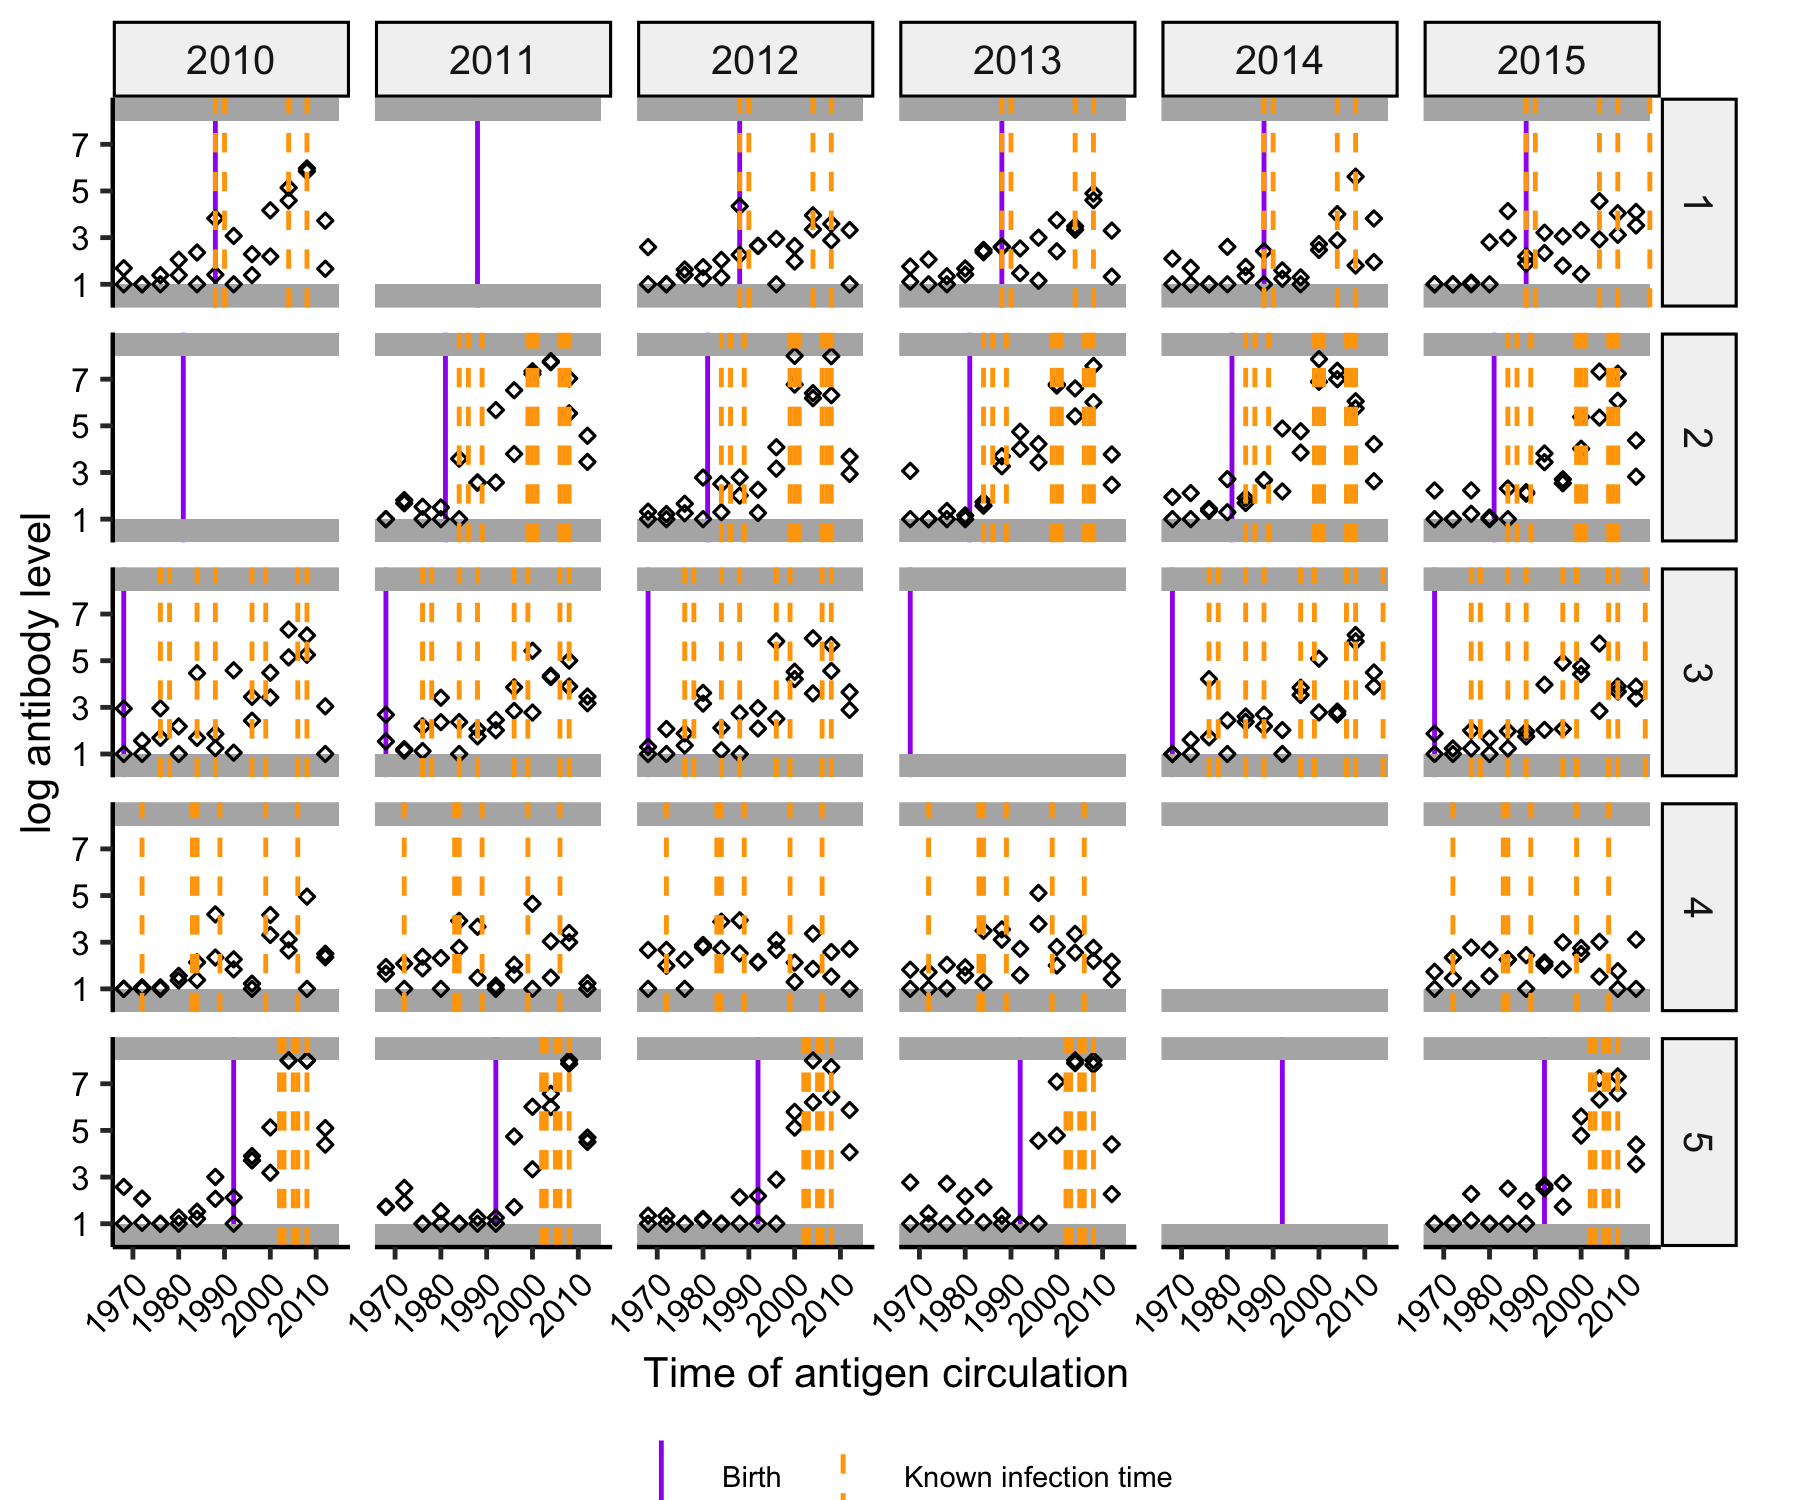
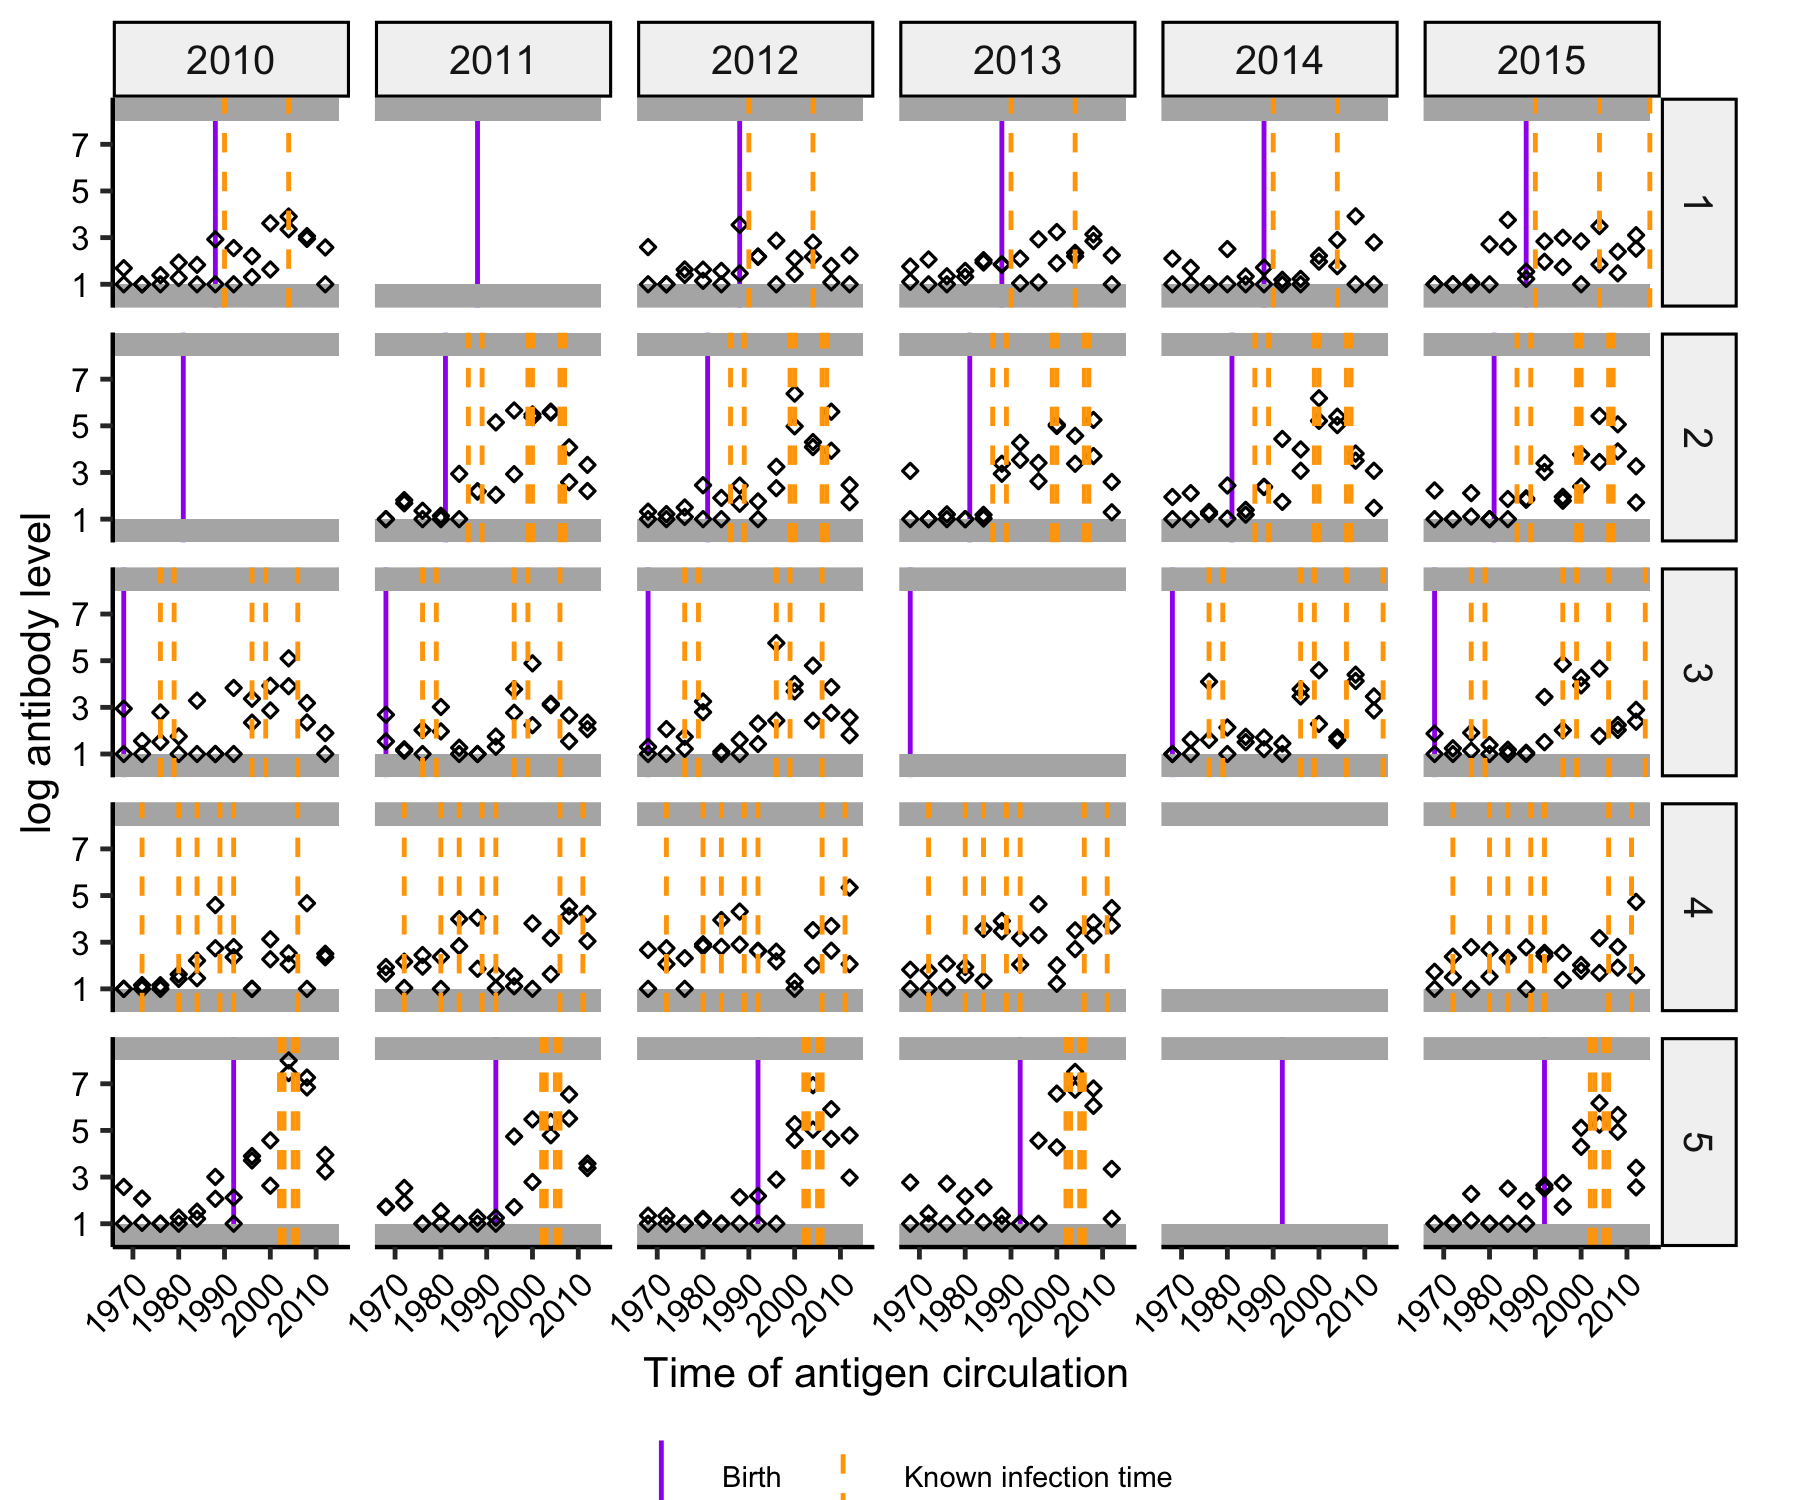
Finished readmes and vignettes, ready to build site

diff --git a/README.md b/README.md
@@ -28,13 +28,12 @@ serology panels. The package and model are described by Hay *et al.*
 
 ## New features
 
-`serosolver` is in active development with new features and ongoing
-improvements.
+The current version of `serosolver` includes the following new features.
 <details>
 
 <summary>
 
-List of new features:
+New features:
 </summary>
 
 - Generalisation to multiple biomarker types per sample (e.g., antibody
@@ -50,13 +49,6 @@ List of new features:
 
 ## Installation
 
-`serosolver` is in the midst of an overhaul. Please use the `published`
-branch to ensure continued compatibility with existing projects.
-
-``` r
-remotes::install_github("seroanalytics/serosolver", ref = "published")
-```
-
 Install the development version of serosolver from
 [GitHub](https://github.com/seroanalytics/serosolver):
 
@@ -65,9 +57,17 @@ remotes::install_github("seroanalytics/serosolver")
 library(serosolver)
 ```
 
+Note that `serosolver` has been overhauled relative to published
+version. Please use the `published` branch to ensure continued
+compatibility with older projects.
+
+``` r
+remotes::install_github("seroanalytics/serosolver", ref = "published")
+```
+
 ## Dependencies
 
-A working C++14 compiler is needed. The package uses `Rcpp`,
+A working C++17 compiler is needed. The package uses `Rcpp`,
 `RcppArmadillo`, and `RcppParallel`.
 
 ``` r
@@ -92,27 +92,25 @@ to set up and run a simple implementation with a simulation model.
 
 Additional vignettes:
 
-- [Longitudinal
-  data](https://seroanalytics.github.io/serosolver/articles/cs1_hong_kong.html):
-  estimating infection timings using longitudinal data, example of
-  influenza A/H1N1p in Hong Kong
-- [Cross-sectional
-  data](https://seroanalytics.github.io/serosolver/articles/cs2_vignette.html):
+- [Longitudinal case
+  study](https://seroanalytics.github.io/serosolver/articles/cs1_hong_kong.html):
+  estimating infection timings using longitudinal data, with an example
+  from influenza A/H1N1p in Hong Kong
+- [Cross-sectional case
+  study](https://seroanalytics.github.io/serosolver/articles/cs2_vignette.html):
   estimating life-course infection histories from multi-strain serology,
-  example of influenza A/H3N2 from the [Fluscape
+  with an example from the [Fluscape
   cohort](https://pubmed.ncbi.nlm.nih.gov/26875566/)
-- [Optional
-  features](https://seroanalytics.github.io/serosolver/articles/serosolver-guide.html):
-  walkthrough of additional `serosolver` features and use cases, such as
-  inclusion of biomarker-specific measurement offsets
-- [Multiple
-  measurements](https://seroanalytics.github.io/serosolver/articles/serosolver-guide.html):
-  fitting `serosolver` to multiple biomarker types, example of binding
-  avidity and ELISA measurements per sample
-- [Group-level
-  differences](https://seroanalytics.github.io/serosolver/articles/serosolver-guide.html):
-  estimating demographic differences in antibody kinetics and attack
-  rates
+- [Advanced
+  features](https://seroanalytics.github.io/serosolver/articles/advanced_features.html):
+  examples of fixed infection states, starting antibody levels,
+  measurement offsets, exponential waning, multiple biomarker groups,
+  and prior version 1
+- [Demographic variables and
+  covariates](https://seroanalytics.github.io/serosolver/articles/demographics_covariates.html):
+  estimating demographic differences in antibody kinetics and
+  infection-history priors, with an example of variant-stratified
+  parameters
 - [Naming
   conventions](https://seroanalytics.github.io/serosolver/articles/naming_convention.html):
   the current names for datasets, variables, and model inputs
@@ -170,7 +168,7 @@ output$plot_fits_cross_sectional
 
 <img src="man/figures/README-example_model_fits-1.png" alt="" width="100%" />
 
-## AI assistance
+## AI declaration
 
 AI assistance was used during development of this package for
 documentation drafting, repository audits, code review, and selected
